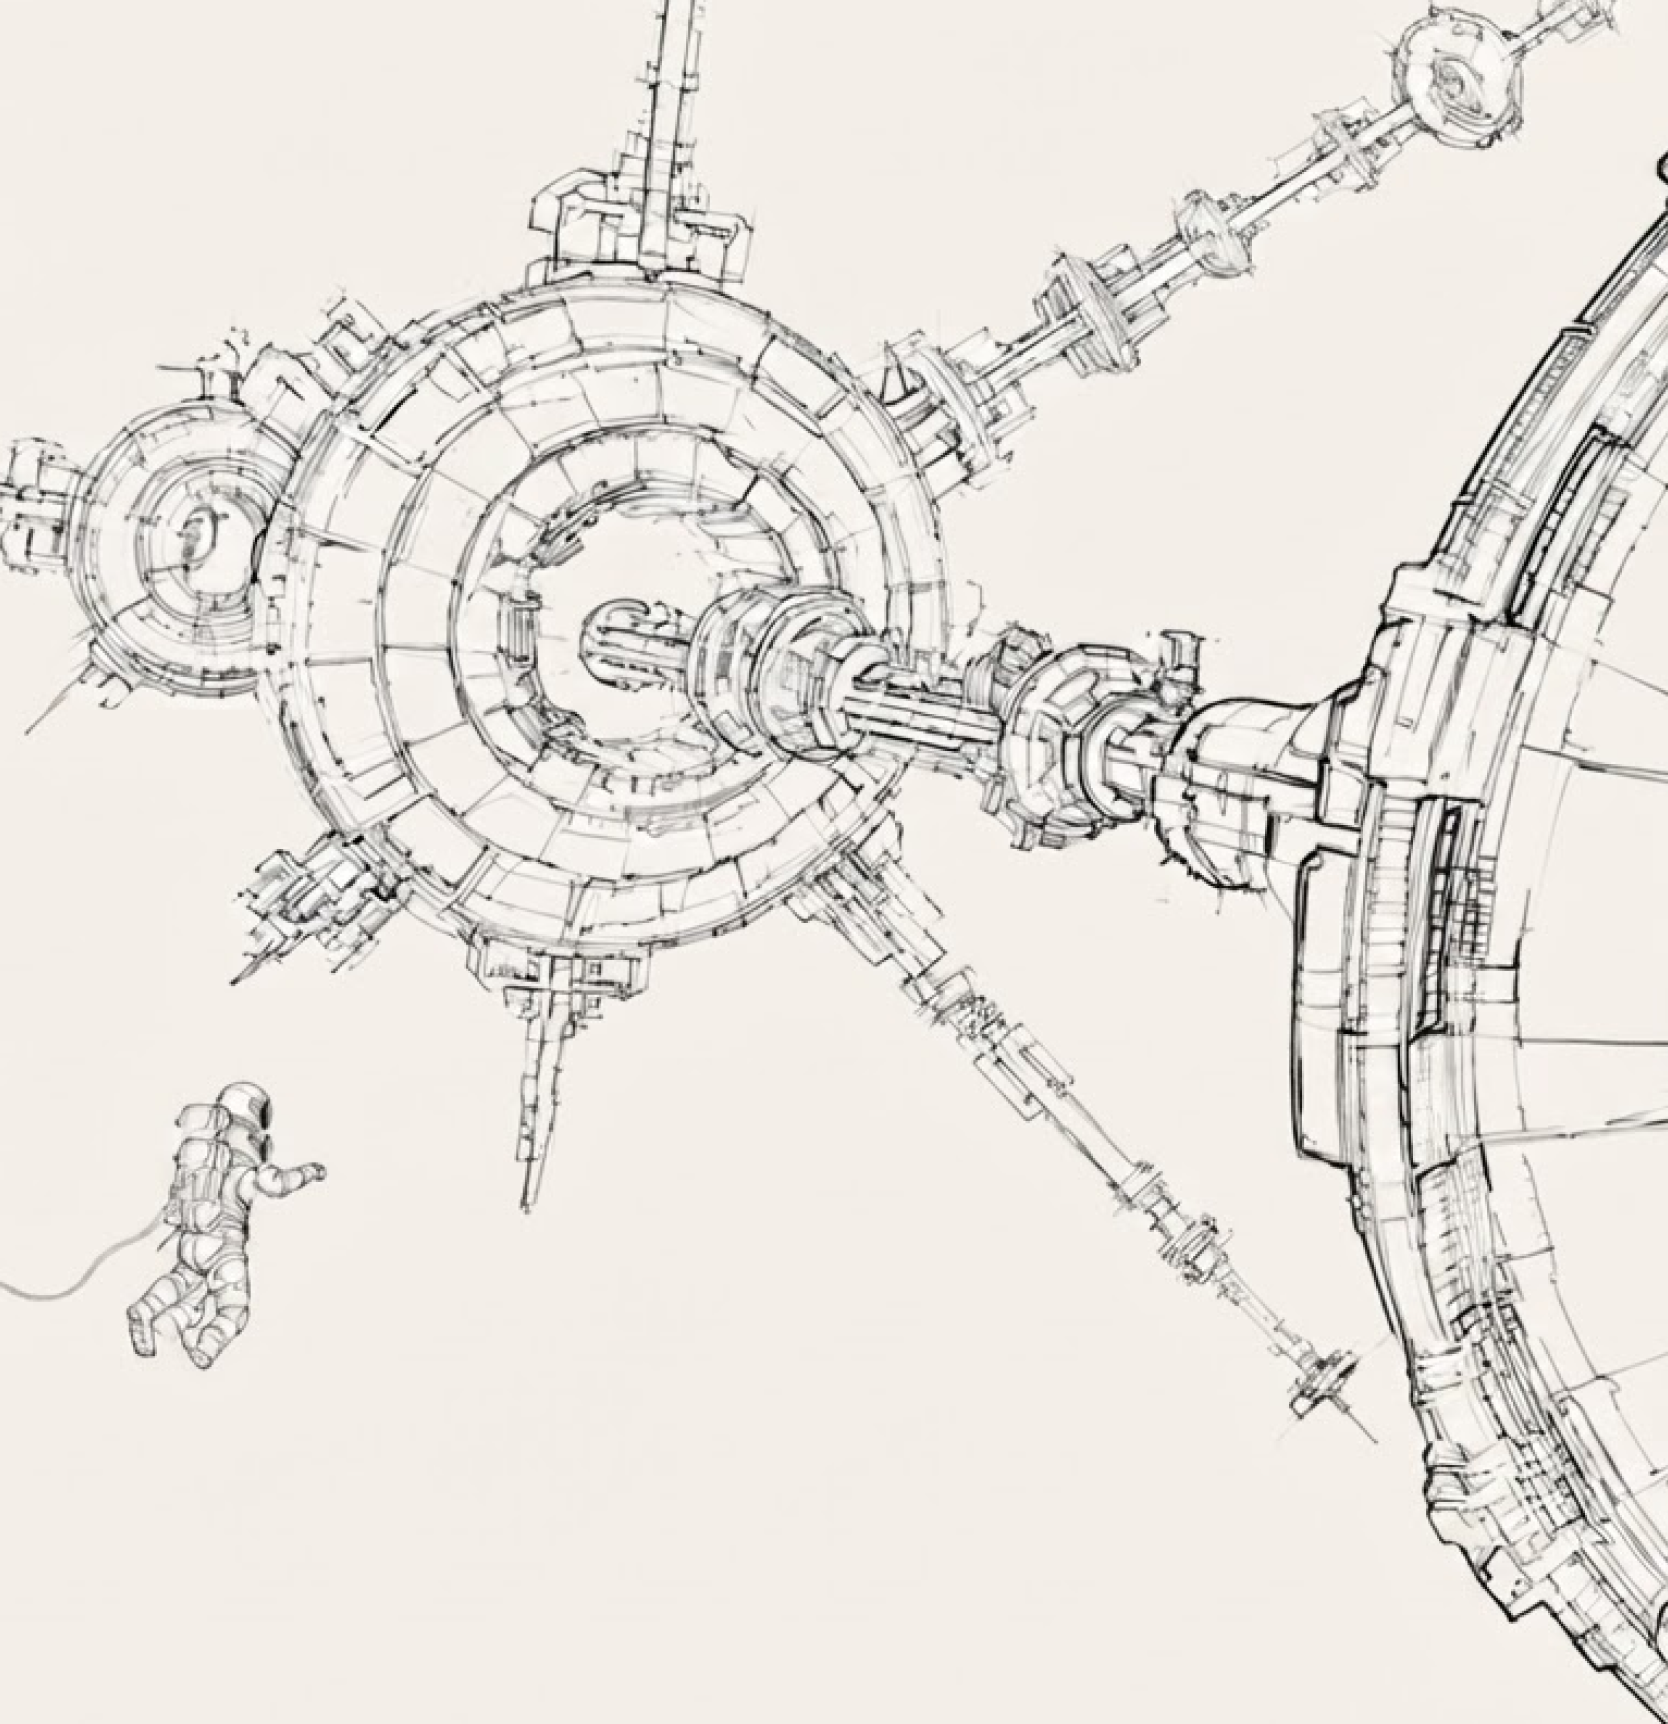
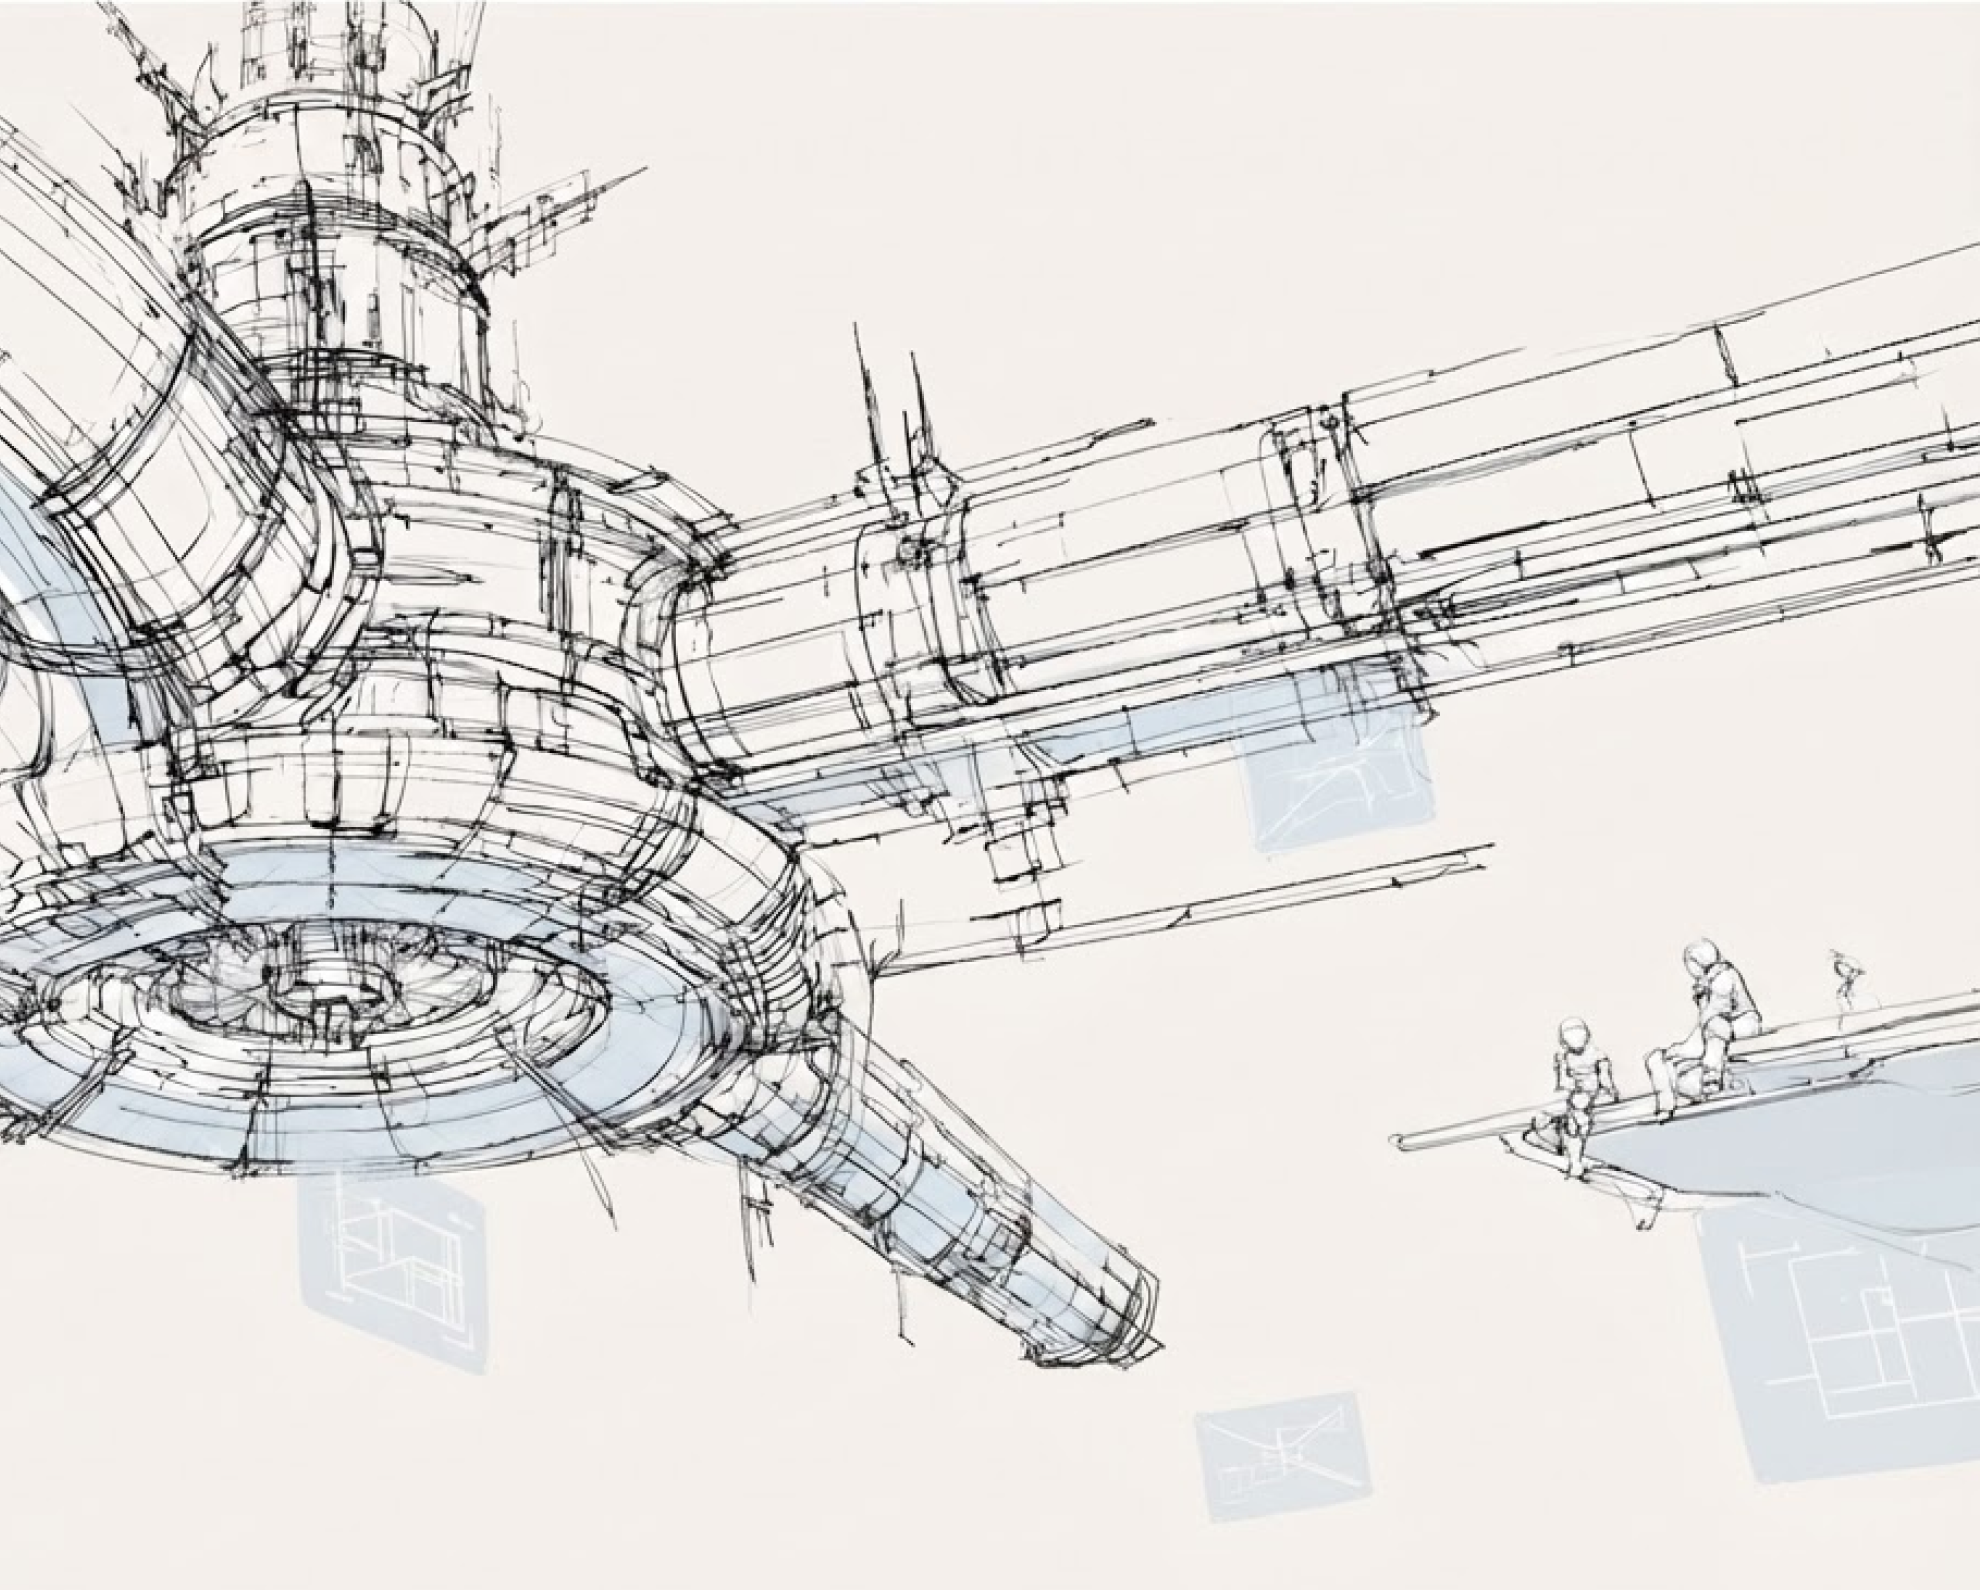
feat: replace belief p2 artwork

diff --git a/styles.css b/styles.css
@@ -163,8 +163,8 @@ html[data-variant="light"] .site-header .variant-toggle { height:44px; pointer-e
 .polaroid-card img { height:100%; object-fit:cover; object-position:bottom; position:absolute; width:100%; }
 .card-wrap-p1 { height:328.755px; left:calc(50% - 297.963px); top:350px; width:292.963px; }
 .card-wrap-p1 .polaroid-card { height:277px; transform:rotate(-16.27deg); width:224.353px; }
-.card-wrap-p2 { height:446.419096px; left:50%; top:calc(100vh - 638.419096px); width:435.057475px; }
-.card-wrap-p2 .polaroid-card { height:401.908px; transform:rotate(7.02deg); width:388.852984px; }
+.card-wrap-p2 { height:460.062806px; left:50%; top:calc(100vh - 652.062806px); width:545.856823px; }
+.card-wrap-p2 .polaroid-card { height:401.908px; transform:rotate(7.02deg); width:500.489208px; }
 
 .light-approach { background:#f5f0ed; height:calc(100vh + 2800px); margin-top:0; position:relative; }
 .light-approach-heading { display:flex; flex-direction:column; gap:22px; left:0; max-width:4000px; padding:0 72px 0 78px; position:absolute; top:386px; width:100%; z-index:2; }
@@ -265,8 +265,8 @@ html[data-variant="light"] .site-header .variant-toggle { height:44px; pointer-e
   .light-belief-copy { font-size:22px; left:32px; line-height:1.2; top:355px; width:calc(100% - 64px); }
   .card-wrap-p1 { height:160px; left:12%; top:70px; width:160px; }
   .card-wrap-p1 .polaroid-card { height:145px; width:145px; }
-  .card-wrap-p2 { height:266.579871px; right:calc(11% - 62.89763px); left:auto; top:68.420129px; width:259.795261px; }
-  .card-wrap-p2 .polaroid-card { height:240px; width:232.204176px; }
+  .card-wrap-p2 { height:274.727235px; right:calc(11% - 95.979633px); left:auto; top:60.272765px; width:325.959268px; }
+  .card-wrap-p2 .polaroid-card { height:240px; width:298.867925px; }
   .light-approach { height:auto; margin-top:0; padding-top:130px; }
   .light-approach-heading { left:32px; padding:0; position:absolute; top:48px; width:auto; }
   .light-approach h2 { font-size:36px; line-height:1.05; }
